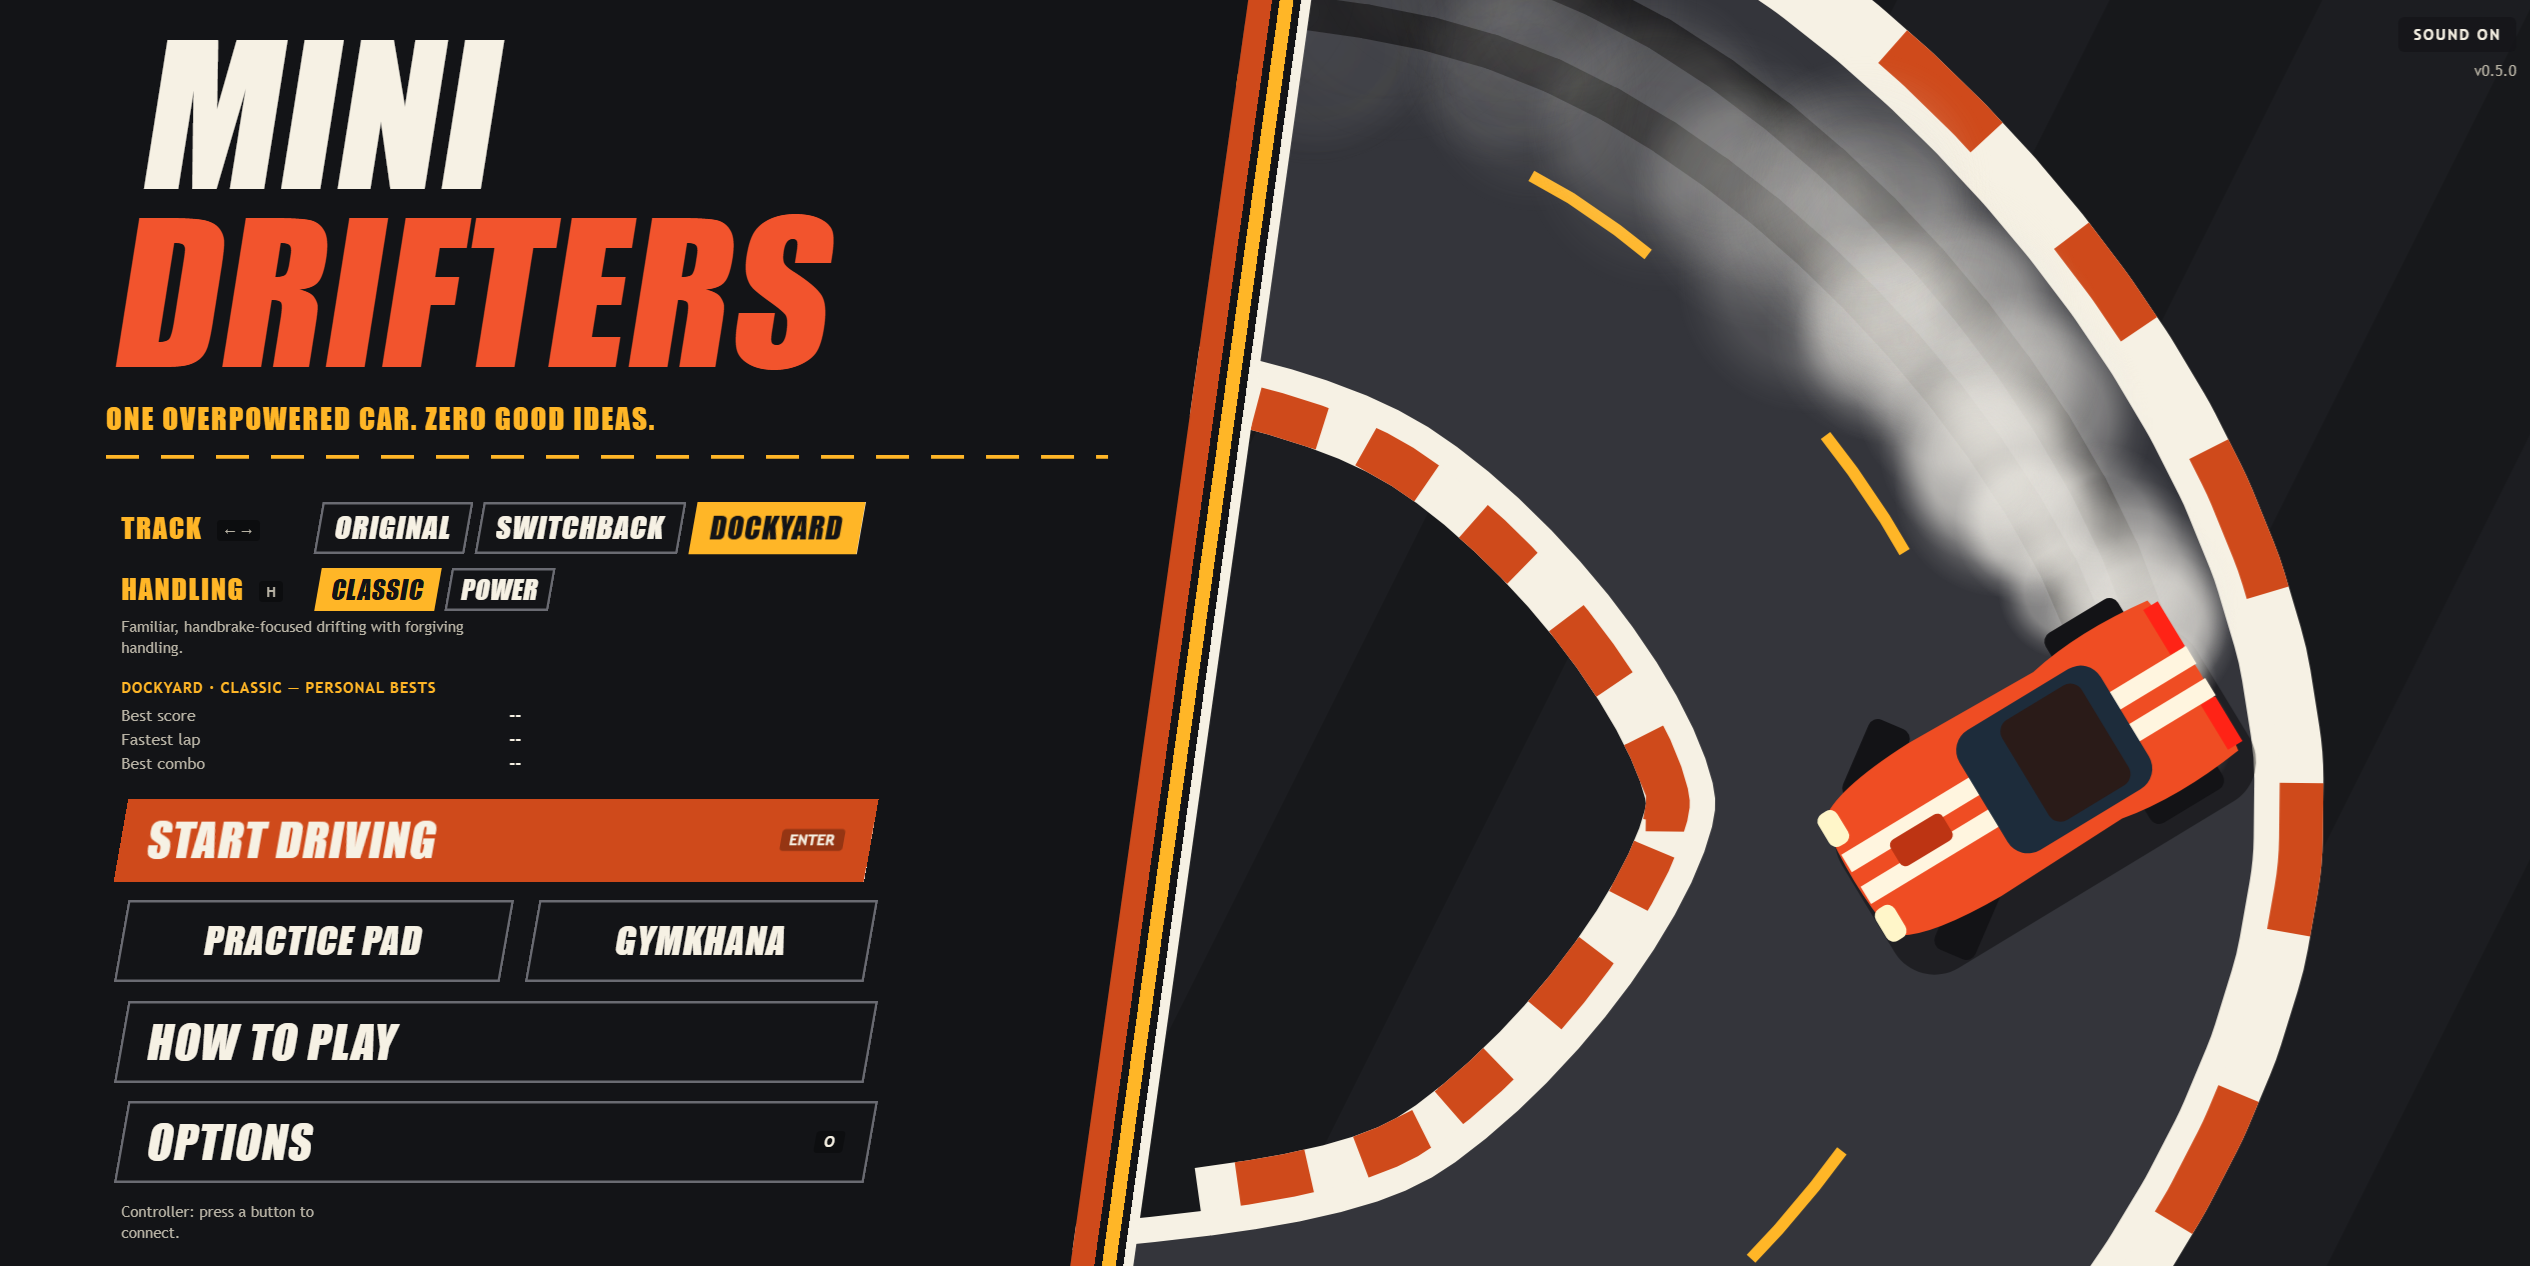
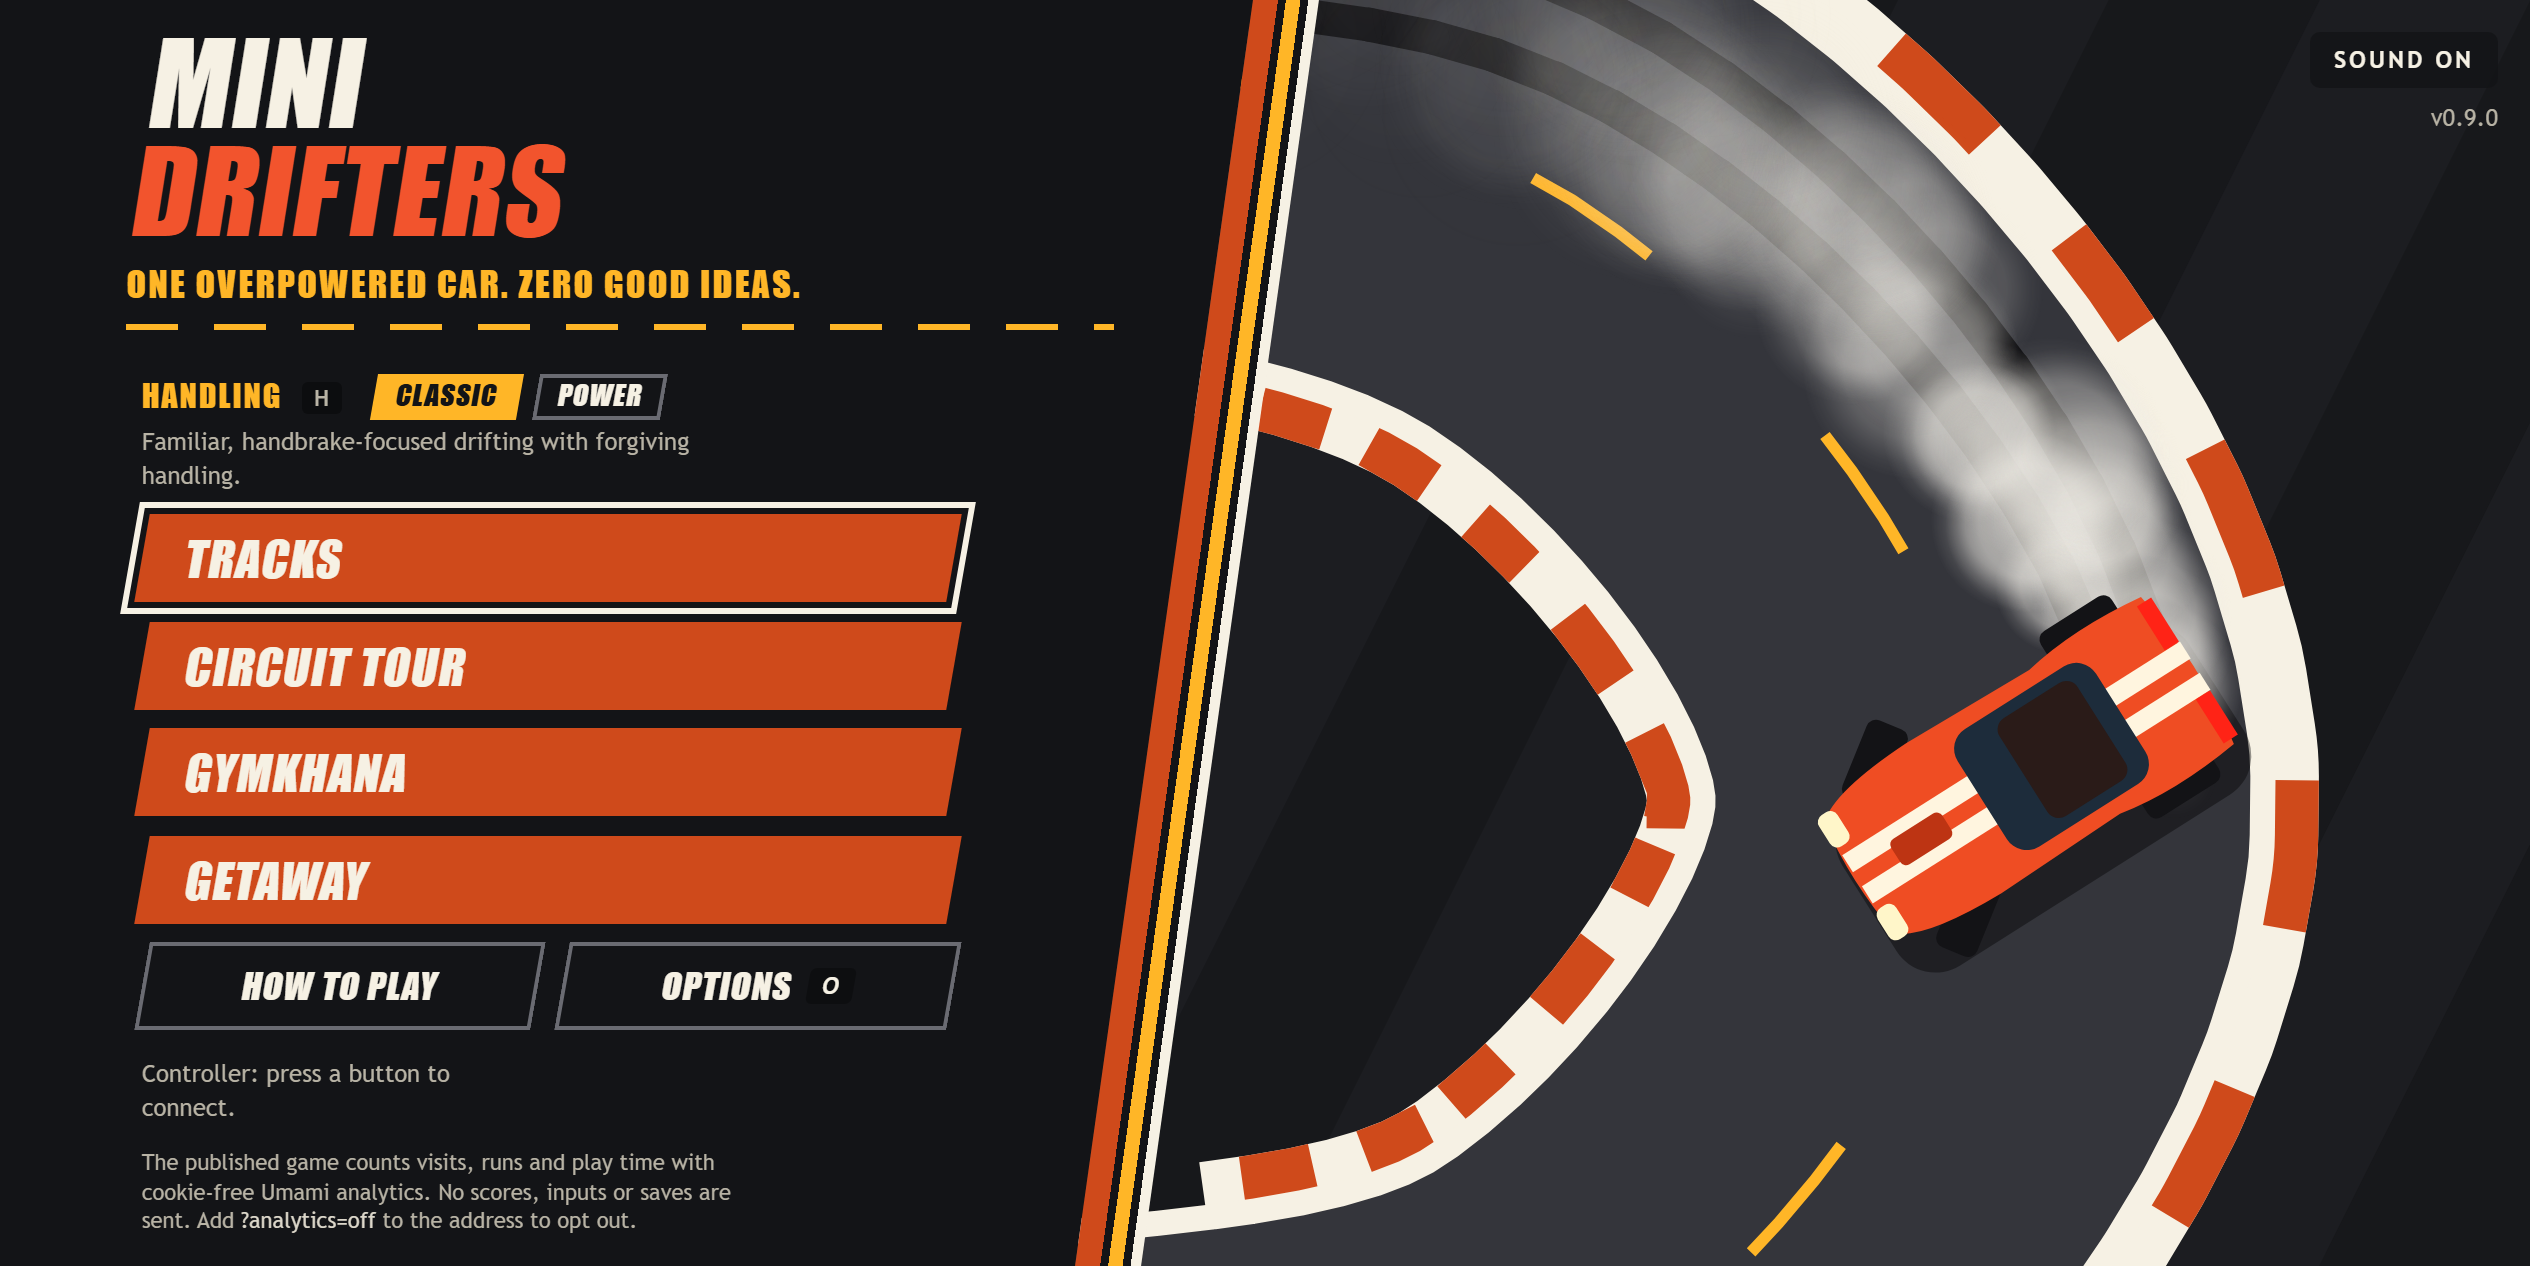
docs: promote the v0.9.0 title capture and finalise v0.9.0 release docs
- docs/media/title_screen.png (the README's canonical title image) is now
  the owner-approved v0.9.0 capture; the separate candidate copy is removed
  so the image is not stored twice. title-screen-v0.6.0.png keeps v0.6.0.
- Roadmap: Prototype 0.9 complete; v0.10.0 adds test reliability.
- Release notes: final qualification and the reference-ghost test fix.
- README Releases table links the v0.9.0 release.

diff --git a/docs/RELEASE-v0.9.0.md b/docs/RELEASE-v0.9.0.md
@@ -86,10 +86,22 @@ and adds **Circuit Tour**, a short championship against five rival drifters.
 
 ## Qualification
 
-The release candidate is integrated through a stack of two pull requests:
+The release was integrated through a stack of two pull requests, each merged with a merge commit:
 
+- [PR #47](https://github.com/libertaine/mini-drifters/pull/47) (R3: Circuit Tour, the Joker
+  explanation and release preparation) into the R1 branch
 - [PR #46](https://github.com/libertaine/mini-drifters/pull/46) (R1: the four circuits and the
-  Tracks redesign)
-- the R3 pull request (Circuit Tour), stacked on it
+  Tracks redesign, now carrying R3) into `main`
 
-Final results are recorded in the R3 pull request.
+The final candidate was qualified on its exact commit before release: the full unit suite, all 28
+browser suites in both Chromium and Firefox, and the publishing, analytics and desktop layout
+checks, locally and in the full hosted workflow. The one accepted `TODO` is the Dockyard chicane
+regression test described under Known limits. The totals and hosted run links are recorded in the
+pull requests and the GitHub release.
+
+One test reliability fix was made during final qualification. A hosted Firefox run read the
+reference-ghost suite's *REFERENCE NOT SAVED* banner after a fixed 150 ms pause, before the
+game's next animation frame had written it. The check now waits for the banner, frame by frame
+and for at most 5 seconds, then asserts the same text. No game code changed.
+
+The README title image is now a v0.9.0 capture.

diff --git a/docs/ROADMAP.md b/docs/ROADMAP.md
@@ -118,9 +118,9 @@ Released as [v0.8.0](https://github.com/libertaine/mini-drifters/releases/tag/v0
 
 Physics, handling, scoring, medal thresholds, ghost compatibility and existing record formats are unchanged from v0.7.0. Dockyard's chicane shortcut remains an accepted TODO. See [the release notes](RELEASE-v0.8.0.md).
 
-## Prototype 0.9: Seven circuits and Circuit Tour (release candidate)
+## Prototype 0.9: Seven circuits and Circuit Tour (complete)
 
-Version 0.9.0 contains:
+Released as [v0.9.0](https://github.com/libertaine/mini-drifters/releases/tag/v0.9.0):
 
 - **Four more racing circuits**, for seven in all: **Runway 27** (abandoned airfield), **Redline Mesa** (desert proving ground), **Headland Run** (seaside cliff) and **Nightshift Viaduct** (midnight expressway). Each is a three-lap circuit in Classic and Power, with its own records and saved reference ghosts. See [the v0.9.0 circuit notes](CIRCUITS-v0.9.0.md).
 - **A redesigned Tracks sheet**: a grid of seven circuit cards with silhouettes and settings, above a panel for the selected circuit's description, personal bests and the Practice Pad.
@@ -133,7 +133,7 @@ Physics, handling, drift scoring, record formats, ghost compatibility and the an
 
 ## Upcoming versions
 
-- **v0.10.0** focuses on technical cleanup, an architectural review and project direction.
+- **v0.10.0** focuses on technical cleanup, an architectural review, test reliability and project direction.
 
 ### Research candidates
 

diff --git a/README.md b/README.md
@@ -219,7 +219,7 @@ npm test
 
 | Version | Highlights |
 |---|---|
-| v0.9.0 | Four new circuits (Runway 27, Redline Mesa, Headland Run, Nightshift Viaduct) for seven in all, a redesigned Tracks sheet, and Circuit Tour: a championship against five rivals with a Joker and a double-points final |
+| [v0.9.0](https://github.com/libertaine/mini-drifters/releases/tag/v0.9.0) | Four new circuits (Runway 27, Redline Mesa, Headland Run, Nightshift Viaduct) for seven in all, a redesigned Tracks sheet, and Circuit Tour: a championship against five rivals with a Joker and a double-points final |
 | [v0.8.0](https://github.com/libertaine/mini-drifters/releases/tag/v0.8.0) | Getaway Driver, dusk city/pursuit overhaul & Busted announcer voice, Tracks/Practice Pad/Gymkhana visual & audio polish, Umami analytics, tutorial steering hint, and risk-based CI |
 | [v0.7.0](https://github.com/libertaine/mini-drifters/releases/tag/v0.7.0) | Gymkhana medals, saved reference ghosts, Getaway: Get the Footage, and Tracks, Gymkhana and Getaway menus |
 | [v0.6.0](https://github.com/libertaine/mini-drifters/releases/tag/v0.6.0) | Functional environments: solid scenery on all three circuits |
